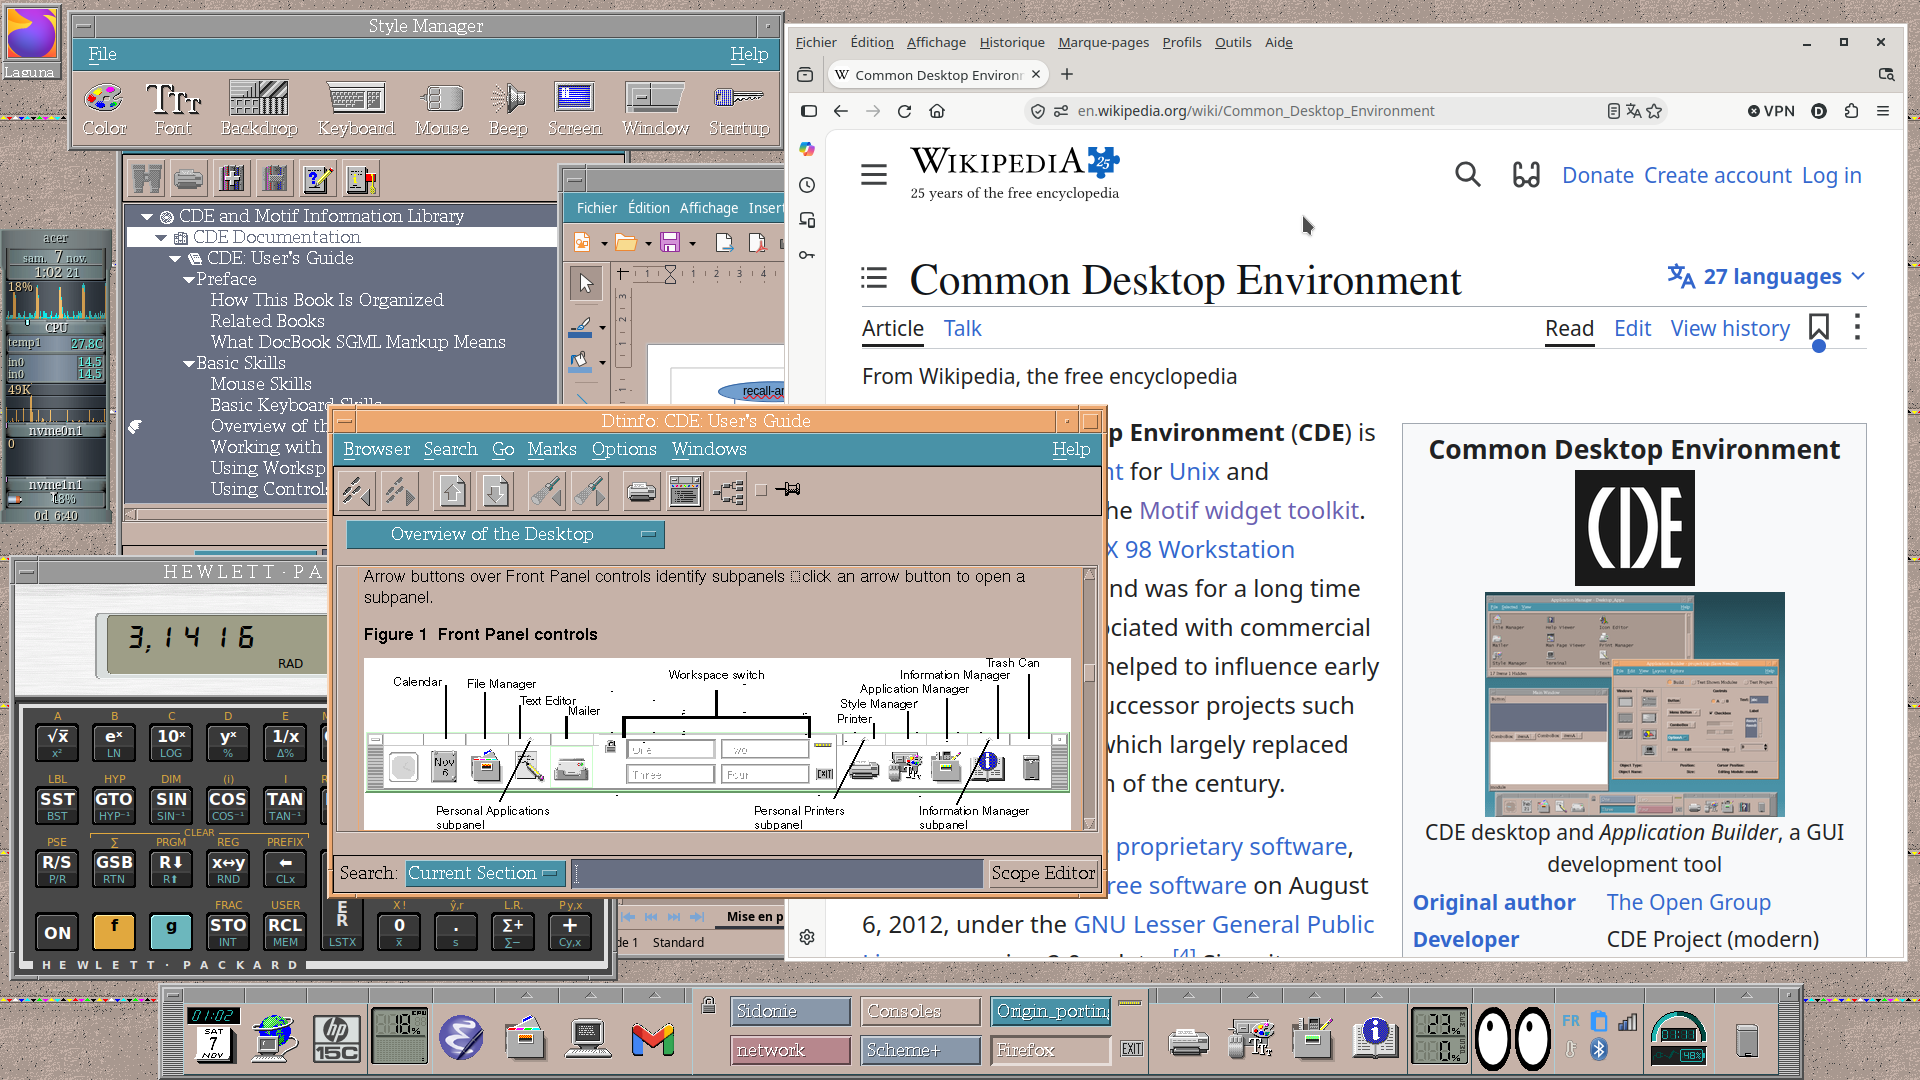
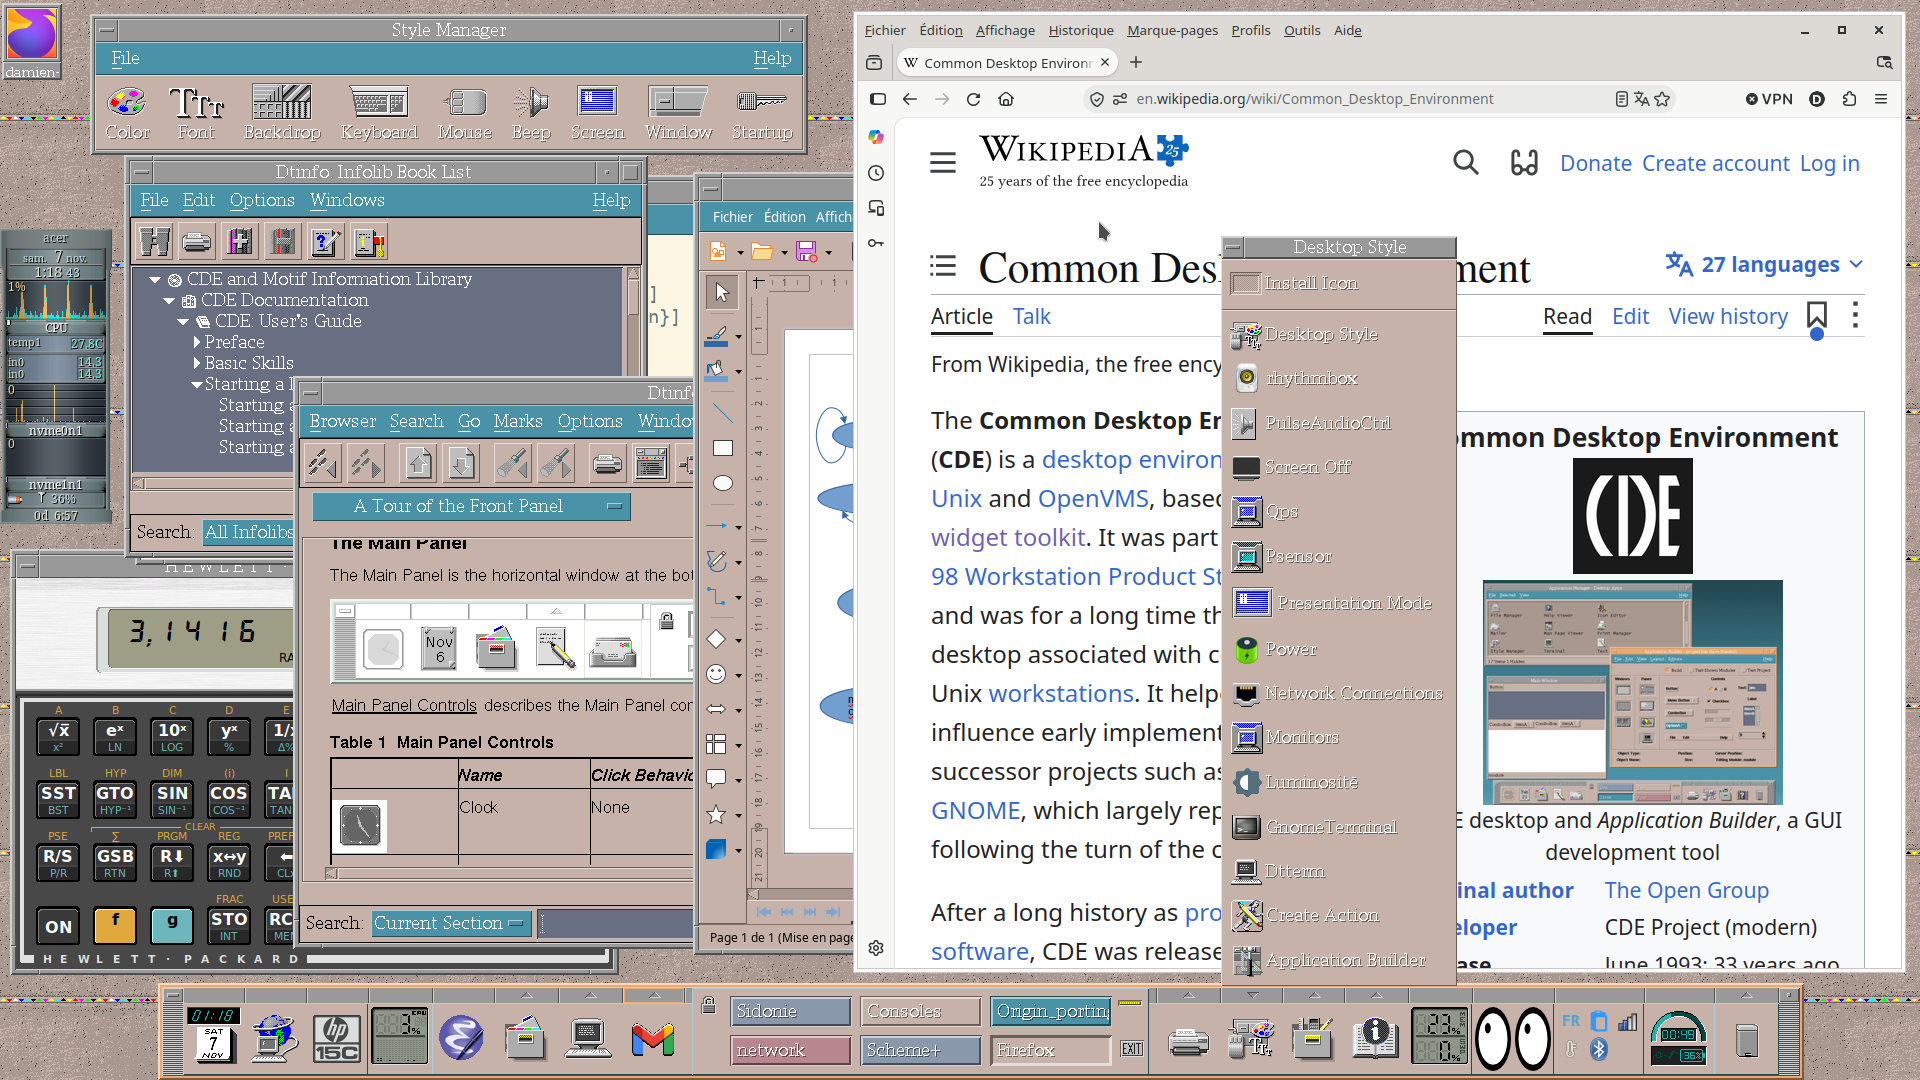
README: new CDE desktop screenshot (Desktop Style subpanel open)

diff --git a/README.md b/README.md
@@ -5,7 +5,7 @@
 My personal **CDE** (Common Desktop Environment) setup on Ubuntu: the contents of
 `~/.dt`, with a Front Panel brought up to date while staying true to the CDE look.
 
-![CDE desktop: Style Manager, dtinfo, HP-15C and the customized Front Panel](doc/cde-desktop.png)
+![CDE desktop: Style Manager, dtinfo, HP-15C, the Desktop Style subpanel and the customized Front Panel](doc/cde-desktop.png)
 
 ## What's inside
 
